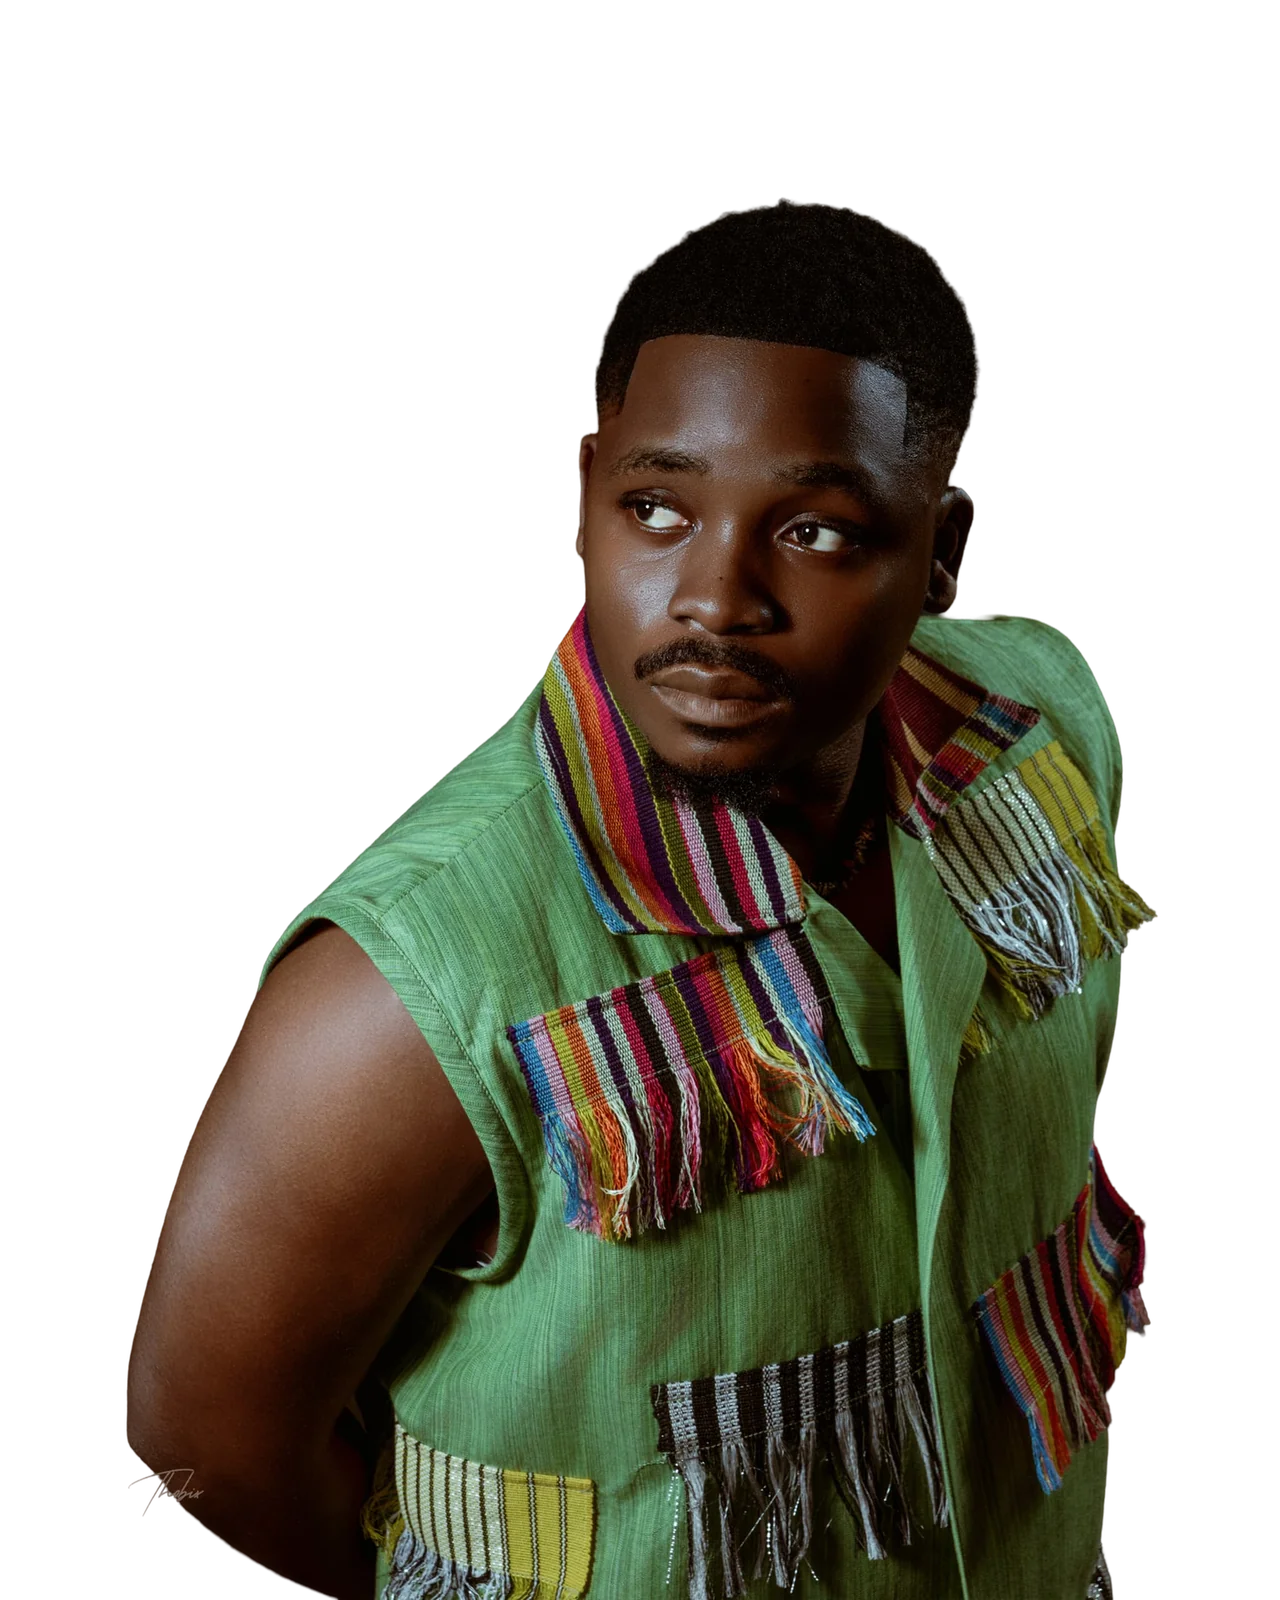
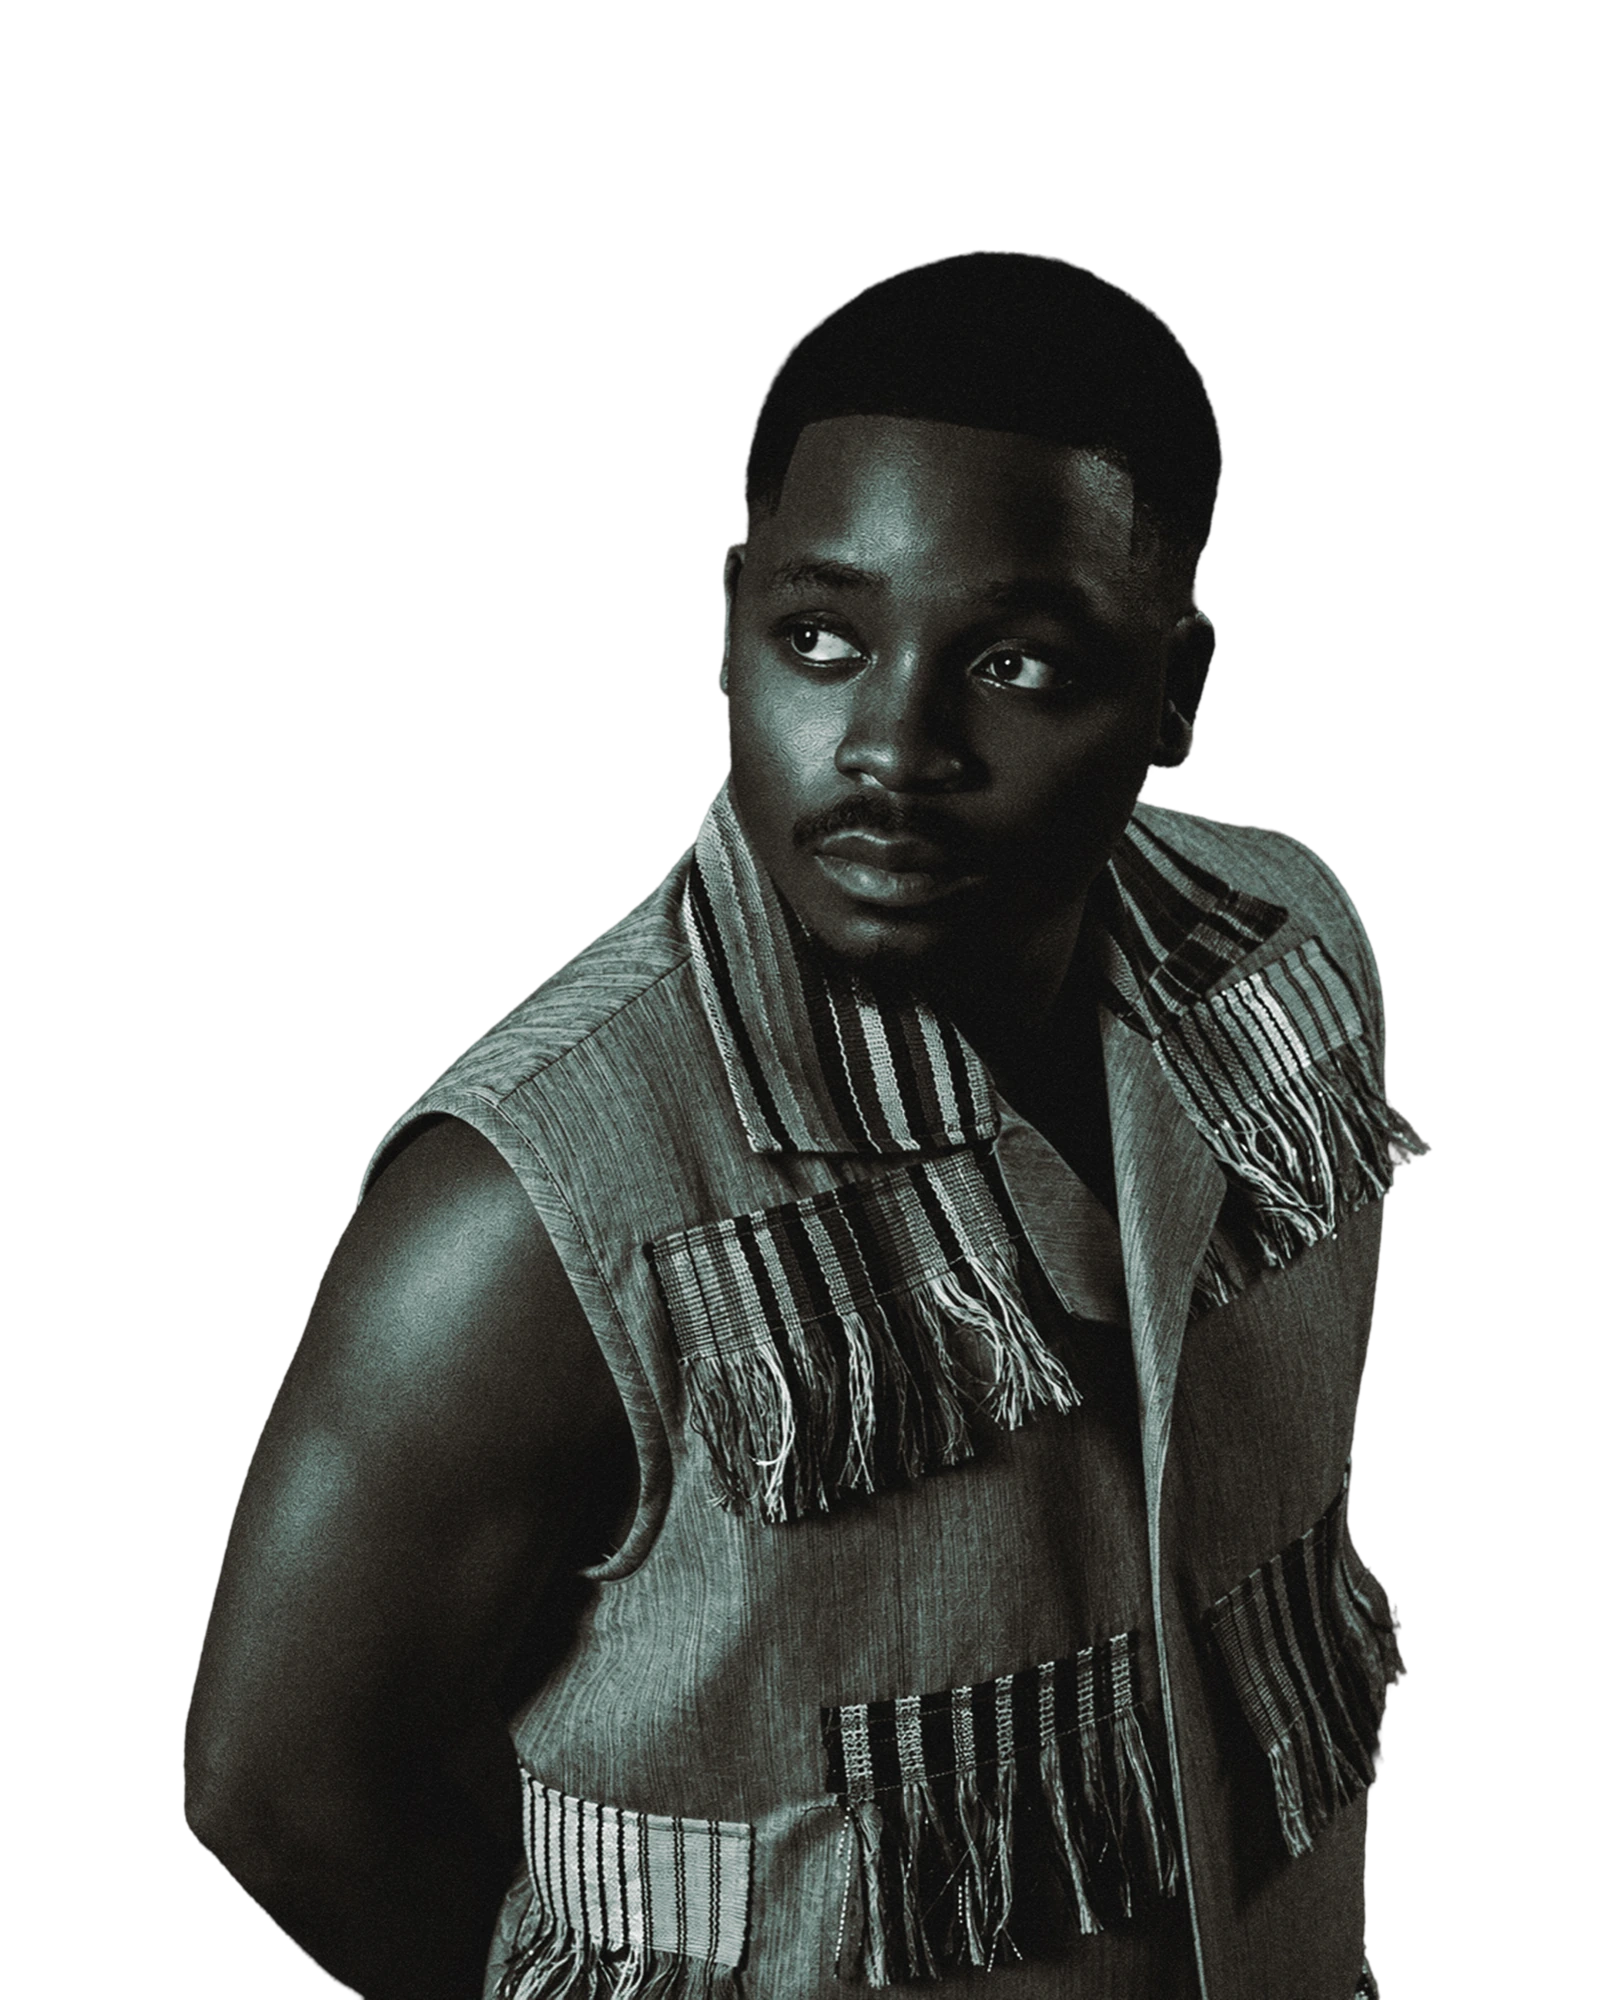
feat(hero): intégration du nouveau visuel détouré Thobix (hero new) en haute définition WebP et PNG

diff --git a/src/components/Hero.jsx b/src/components/Hero.jsx
@@ -101,14 +101,17 @@ export default function Hero({ onOpenBooking }) {
 
           {/* Photographer Portrait Visual with Depth Parallax Layer */}
           <div className="kaiser-portrait-container">
-            <img 
-              src="/images/1.webp" 
-              alt="Thobix Eclou — Photographe & Directeur Artistique" 
-              className="kaiser-portrait-img"
-              loading="eager"
-              fetchpriority="high"
-              decoding="async"
-            />
+            <picture>
+              <source srcSet="/images/1.webp" type="image/webp" />
+              <img 
+                src="/images/1.png" 
+                alt="Thobix Eclou — Photographe & Directeur Artistique" 
+                className="kaiser-portrait-img"
+                loading="eager"
+                fetchpriority="high"
+                decoding="async"
+              />
+            </picture>
           </div>
 
           {/* Setting / Aperture Flash Trigger Button */}
